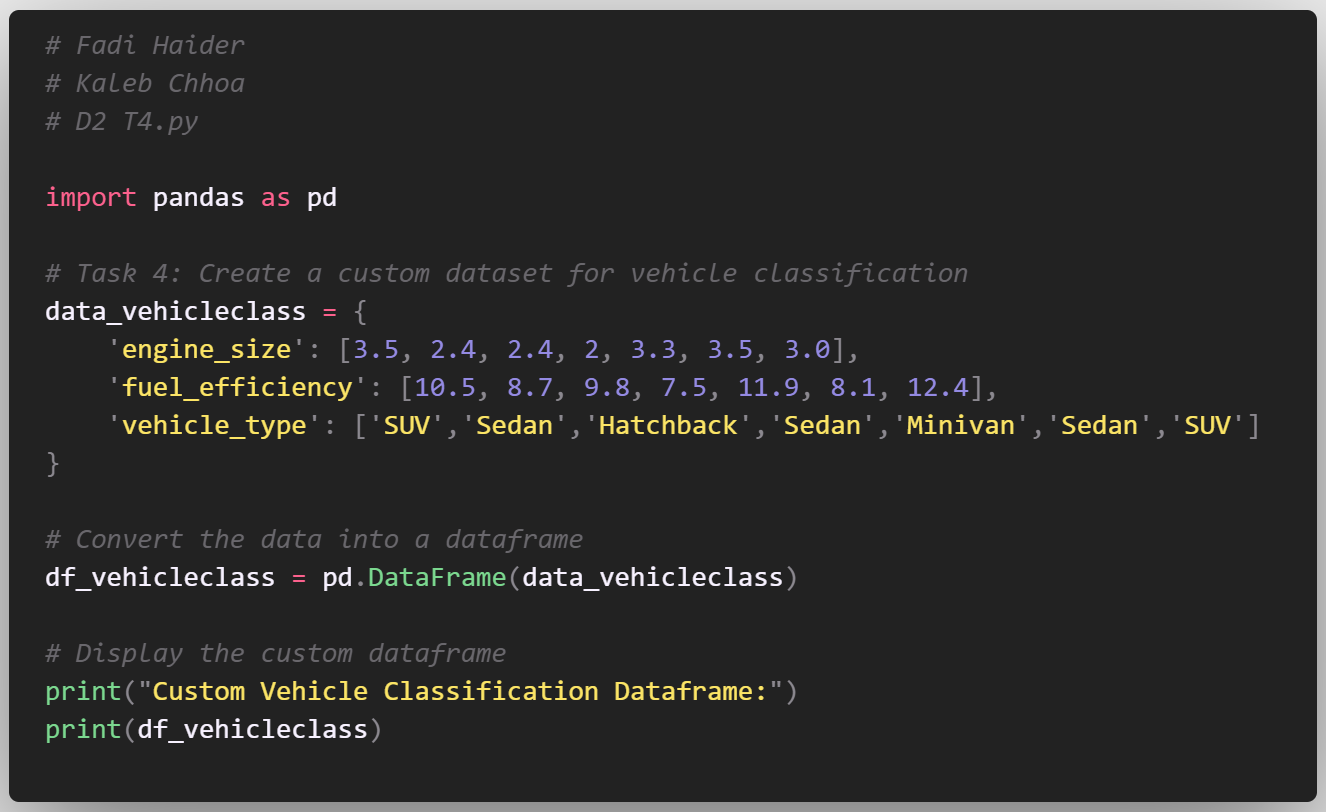
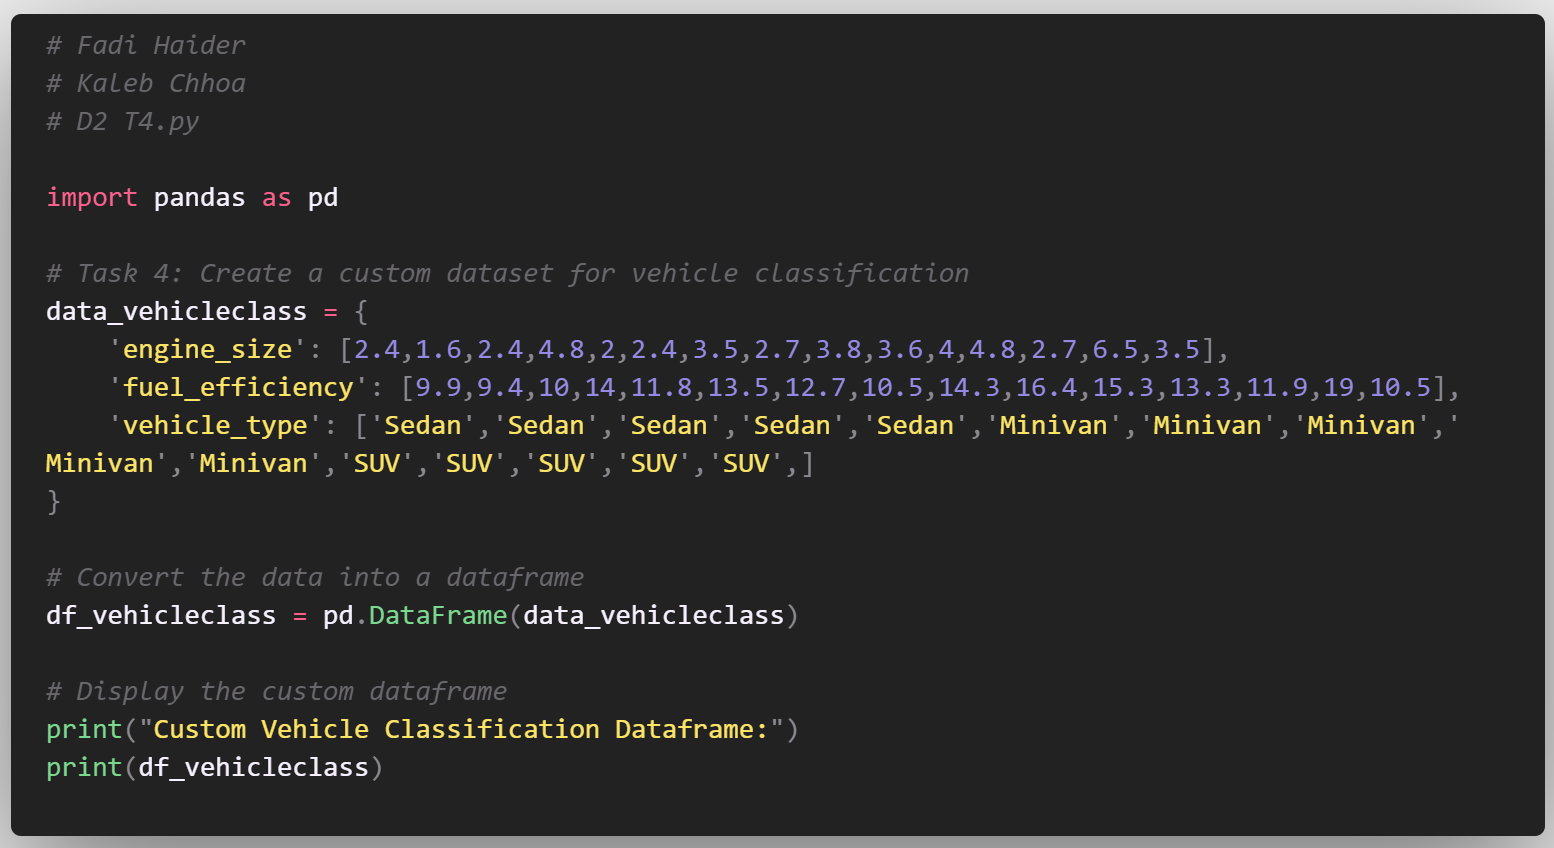
Finalized Task 4 with 5 per variable

diff --git a/Deliverable 2/D2 T4.py b/Deliverable 2/D2 T4.py
@@ -6,9 +6,9 @@ import pandas as pd
 
 # Task 4: Create a custom dataset for vehicle classification
 data_vehicleclass = {
-    'engine_size': [3.5, 2.4, 2.4, 2, 3.3, 3.5, 3.0],
-    'fuel_efficiency': [10.5, 8.7, 9.8, 7.5, 11.9, 8.1, 12.4],
-    'vehicle_type': ['SUV','Sedan','Hatchback','Sedan','Minivan','Sedan','SUV']
+    'engine_size': [2.4,1.6,2.4,4.8,2,2.4,3.5,2.7,3.8,3.6,4,4.8,2.7,6.5,3.5],
+    'fuel_efficiency': [9.9,9.4,10,14,11.8,13.5,12.7,10.5,14.3,16.4,15.3,13.3,11.9,19,10.5],
+    'vehicle_type': ['Sedan','Sedan','Sedan','Sedan','Sedan','Minivan','Minivan','Minivan','Minivan','Minivan','SUV','SUV','SUV','SUV','SUV',]
 }
 
 # Convert the data into a dataframe
